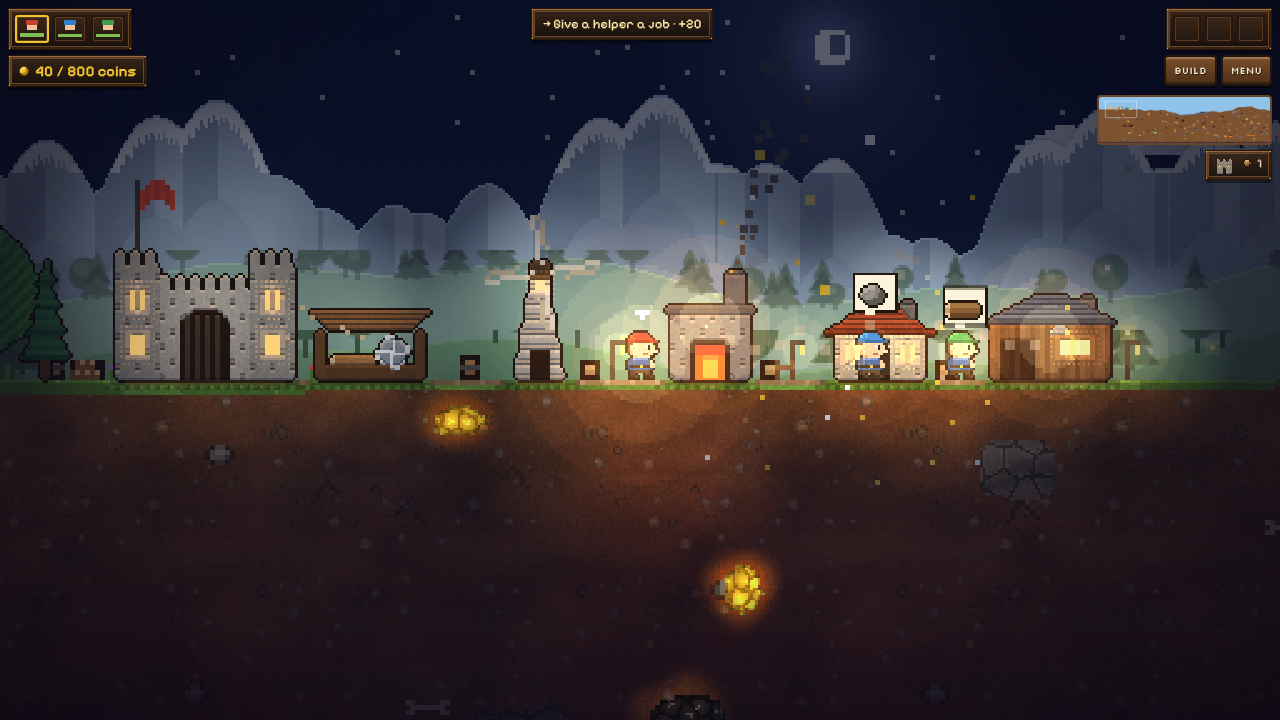
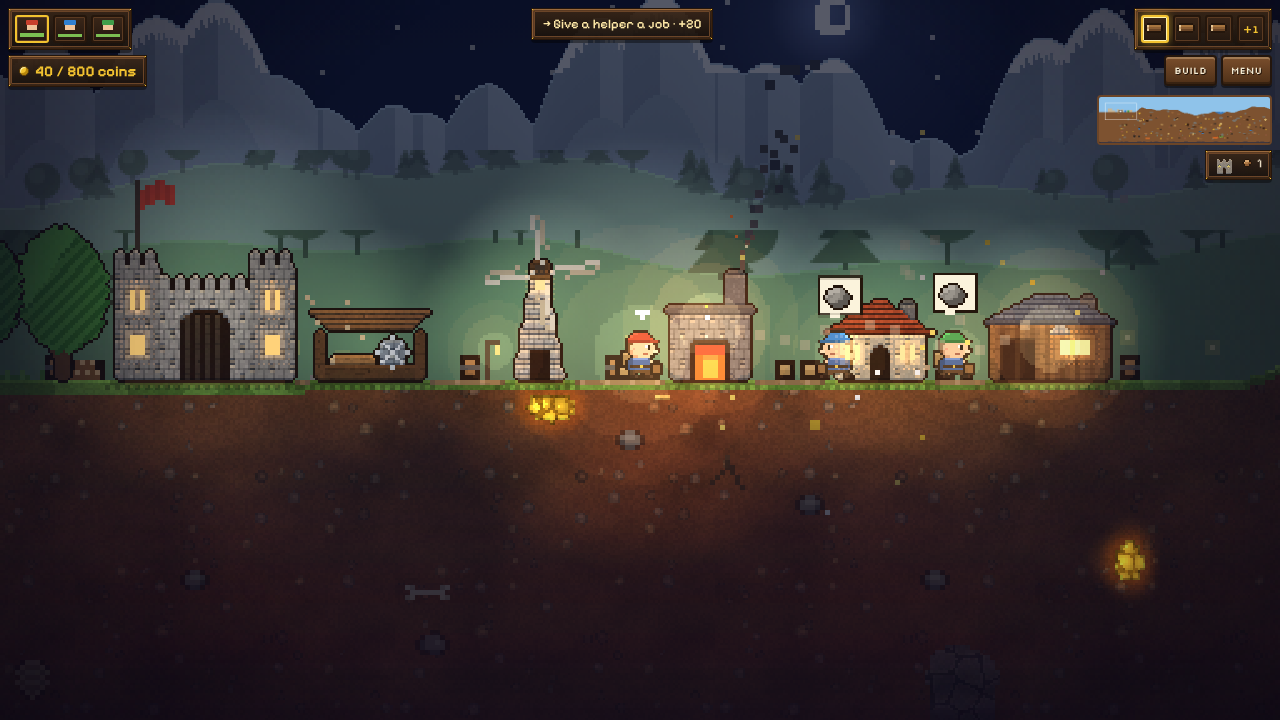
Buildings at double resolution with material detail, everywhere, v1.55.0
- bldart.js variant 1 (chosen from the comparison sheet): stone joints, wood grain, shingles and a
  window glint for all 12 buildings and all 4 building styles, in the world, the lobby and the
  build menu icons; sizes exactly 2x (test).
- No start-cue arrow or banner in the staged store pictures; store pictures regenerated.
- Docs: rubric (v1.55.0, 7.4), STYLE (2x buildings, poses, round start), ANALYTICS (round_cue),
  README structure.

Claude-Session: https://claude.ai/code/session_01NuBFqVHEDCSZpzdS89exSo

diff --git a/src/render.js b/src/render.js
@@ -50,7 +50,8 @@ import { box, drawVehicles, wheel } from './vehicles/core.js';
 import { drawRails } from './vehicles/rails.js';
 import { topSolid } from './gen.js';
 import { game, joyHome } from './input.js';
-import { ICOL, SPR, drawDetailed, drawHi, drawItemBig } from './sprites.js';
+import { ICOL, SPR, drawHi, drawItemBig } from './sprites.js';
+import { drawCrafted } from './bldart.js';
 import { G, animals, birds, builds, clouds, crew, flashes, items, lorries, meteors, parts, trees } from './state.js';
 import { darkness, skyCols, sunAlt } from './weather.js';
 import { H, W, clamp, drawWorld, flush, onResize, rnd } from './world.js';
@@ -141,14 +142,14 @@ function drawSite(ctx, b, spr, sx, sy) {
   const vh = Math.ceil(b.h * b.prog),
     top = sy + b.h - vh;
   ctx.globalAlpha = 0.22;
-  drawDetailed(ctx, spr, sx, sy);
+  drawCrafted(ctx, spr, sx, sy);
   ctx.globalAlpha = 1;
   if (vh > 0) {
     ctx.save();
     ctx.beginPath();
     ctx.rect(sx - 1, top, b.w + 2, vh + 1);
     ctx.clip();
-    drawDetailed(ctx, spr, sx, sy);
+    drawCrafted(ctx, spr, sx, sy);
     ctx.restore();
   }
   // posts on both sides, a little above the walls, with planks every five pixels
@@ -410,7 +411,7 @@ function render() {
       ctx.fillRect(sx - 1, sy + b.h, b.w + 2, 1);
       for (let x = -2; x < b.w + 2; x += 2) ctx.fillRect(sx + x, sy + b.h + 1, 1, 1);
       if (b.done && b.type !== 'flag' && b.type !== 'gate') {
-        drawDetailed(ctx, spr, sx, sy);
+        drawCrafted(ctx, spr, sx, sy);
         drawRoofWeather(ctx, b, sx, sy);
       }
       else if (!b.done) drawSite(ctx, b, spr, sx, sy);

diff --git a/tests/ui.spec.js b/tests/ui.spec.js
@@ -185,3 +185,23 @@ test('castle tabs show one section at a time, a second tap shows all again, the 
   await expect(tools).toBeVisible();
   expect(errors).toEqual([]);
 });
+
+test('the 2x building art keeps every building at exactly double its size (collision is unchanged)', async ({ page }) => {
+  const errors = await lobby(page);
+  const bad = await page.evaluate(async () => {
+    const { SPR } = await import('/src/sprites.js');
+    const { crafted, material } = await import('/src/bldart.js');
+    const out = [];
+    for (const t of ['base', 'hut', 'shop', 'lift', 'pump', 'saw', 'wind', 'furnace', 'chem', 'tower', 'gate', 'flag']) {
+      const o = crafted(SPR[t], 1);
+      // (2× plus a one-texel outline on every side)
+      if (o.width !== SPR[t].width * 2 + 2 || o.height !== SPR[t].height * 2 + 2) out.push(t);
+    }
+    // the materials are read from colours
+    if (material(0xa6, 0x9e, 0x92) !== 'stone' || material(0x8b, 0x5e, 0x34) !== 'wood') out.push('material');
+    if (material(0x9c, 0x44, 0x28) !== 'roof' || material(0xff, 0xd7, 0x7a) !== 'glass') out.push('material2');
+    return out;
+  });
+  expect(bad).toEqual([]);
+  expect(errors).toEqual([]);
+});

diff --git a/src/ui.js b/src/ui.js
@@ -19,6 +19,7 @@ import { FETCH, focusBadge, openCrew, sendHelperFor } from './crewui.js';
 import { register, send } from './commands.js';
 import { buildStairs } from './climb.js';
 import { BUILDABLE, VK, cannotBuild } from './vehicles/index.js';
+import { craftedIcon } from './bldart.js';
 import { vehicleIcon, vehicleOf } from './vehicles/core.js';
 import { canShoot } from './combat.js';
 import { isPlayer } from './players.js';
@@ -517,7 +518,7 @@ function openBuild() {
     const T = BT[t];
     if (T.hidden || (T.terrOnly && !terrOn())) continue;
     opt(lb, {
-      icon: SPR[t],
+      icon: craftedIcon(SPR[t]),
       title: tr(T.name),
       sub: tr(T.info),
       cost: costTxt(T.cost),
@@ -539,7 +540,7 @@ function productionSection(p) {
   for (const { b, busy, why } of list) {
     const fetch = why && !why.full && FETCH[why.item];
     opt(s, {
-      icon: SPR[b.type],
+      icon: craftedIcon(SPR[b.type]),
       title: tr(BT[b.type].name),
       sub: busy
         ? tr('läuft')

diff --git a/src/lobbyscene.js b/src/lobbyscene.js
@@ -5,7 +5,8 @@
 import { parseSkin } from './skins.js';
 import { BIOMES } from './biomes.js';
 import { drawPortrait } from './portrait.js';
-import { SPR, drawDetailed, drawHi, treeSprite } from './sprites.js';
+import { SPR, drawHi, treeSprite } from './sprites.js';
+import { drawCrafted } from './bldart.js';
 import { T, TEX, TUNNEL } from './tex.js';
 import { drawWorkers, resetWorkers, updWorkers } from './lobbyworkers.js';
 
@@ -157,7 +158,7 @@ function paintTerrain() {
   const o = overlay.getContext('2d');
   o.setTransform(2, 0, 0, 2, 0, 0);
   o.imageSmoothingEnabled = false;
-  drawDetailed(o, SPR.base, land.castleX, groundY(land.castleX + 18) - SPR.base.height + 1);
+  drawCrafted(o, SPR.base, land.castleX, groundY(land.castleX + 18) - SPR.base.height + 1);
   const treeType = biomeName === 'desert' ? 'cactus' : biomeName === 'winter' ? 'snowpine' : 'oak';
   for (const [fx, stage, type] of [
     [0.5, 3, treeType],

diff --git a/src/bldart.js b/src/bldart.js
@@ -123,9 +123,15 @@ function crafted(spr, variant = 1) {
   memo.set(spr, o);
   return o;
 }
+// the same picture as a panel icon (ui.js opt(): a canvas marked hi is shown at half its size)
+function craftedIcon(spr) {
+  const o = crafted(spr, 1);
+  o.hi = true;
+  return o;
+}
 function drawCrafted(ctx, spr, x, y, variant = 1) {
   const o = crafted(spr, variant);
   ctx.drawImage(o, x - 0.5, y - 0.5, o.width / 2, o.height / 2);
 }
 
-export { crafted, drawCrafted, material };
+export { crafted, craftedIcon, drawCrafted, material };

diff --git a/src/startcue.js b/src/startcue.js
@@ -55,5 +55,6 @@ function drawCue(ctx, cx, cy) {
   if (cue && cue.gold && G.state === 'play') drawArrow(ctx, cue.gold.x - cx, cue.gold.y - cy);
 }
 const cueOn = () => !!cue;
+const stopCue = () => (cue = null);
 
-export { cueOn, drawCue, startCue, updCue };
+export { cueOn, drawCue, startCue, stopCue, updCue };

diff --git a/docs/ART_RUBRIC.md b/docs/ART_RUBRIC.md
@@ -1,6 +1,6 @@
 # Optik-Rubrik und Bewertung
 
-> **Stand: v1.54.0, 31.10.2026** (erste Bewertung v1.52.0 in Abschnitt 4, Neubewertungen in Abschnitt 7). Bewertet wird nur, was auf Bildern zu sehen war. Die Note misst die
+> **Stand: v1.55.0, 01.11.2026** (erste Bewertung v1.52.0 in Abschnitt 4, Neubewertungen in Abschnitt 7). Bewertet wird nur, was auf Bildern zu sehen war. Die Note misst die
 > **Optik gegenüber den freigegebenen Vorbildern**. Sie sagt nichts über Budget, Teamgröße oder
 > Umfang. Stilregeln: [STYLE.md](STYLE.md), UI-Regeln: [UI_STYLE.md](UI_STYLE.md).
 
@@ -227,4 +227,40 @@ Belege:
 **Gesamt (gewichtet, ohne Kat. 6):** Flintworks **7,4 / 10**, Maßstab 8,6 / 10.
 Schwächster kritischer Zustand: **Oberfläche zu Beginn**, jetzt 6 (Burghof statt leerer Wiese, aber
 noch kein Ziel im Bild, solange nach dem Tutorial keine Gebäude stehen).
+
+### Nachtrag v1.55.0
+
+Die drei zuletzt offenen Punkte sind umgesetzt, und zwar im Code statt durch einen Pixel-Artist:
+
+1. **Ziel zu Rundenbeginn** (`startcue.js`): ein Banner mit dem Rundenziel; der gelbe Pfeil zeigt bis
+   zum ersten Graben (höchstens 12 s) auf die nächste Goldader nahe der Oberfläche; der Wegweiser am
+   Burghof dreht sich dorthin.
+2. **Neue Posen** (`clonkhi.js`): Frontansicht beim Wenden, Vorlage beim Loslaufen, Rücklage mit
+   gestemmten Beinen beim Bremsen. Dazu kommen Sprung, Fall und Tragen.
+3. **Gebäude in doppelter Auflösung** (`bldart.js`, Variante 1 nach Wahl des Nutzers):
+   - Jeder Pixel der Vorlage wird als Stein, Holz, Dach oder Fenster erkannt und in 2×2 Texeln mit
+     Fugen, Maserung, Schindeln oder Glanz gezeichnet.
+   - Das gilt für alle 12 Gebäude und alle 4 Baustile, auch für die Icons im Bau-Menü und die Lobby-Burg.
+   - Die Maße bleiben exakt; ein Test prüft das.
+
+Belege:
+- Posenbogen (Stehen, Laufen, Start, Bremsen, Wenden, Sprung, Fall, Tragen).
+- Gebäudebogen (heute, Variante 1, Variante 2, Tag und Nacht) und alle Baustile.
+- Store-Bilder.
+
+| # | Kategorie | v1.54.0 | v1.55.0 | Beleg |
+|---|---|---|---|---|
+| 6 | Animation | 7 | **8** | Posenbogen: Frontansicht, Start- und Bremspose lesbar |
+| 3 | Material und Wert | 8 | 8 | Gebäude zeigen ihr Material (Burg mit Fugen); Gelände unverändert |
+| 5 | Welt und Siedlung | 7 | 7 | Gebäude detailreicher, Siedlung aber weiter eine Reihe |
+
+**Gesamt:** ohne Kategorie 6 bleibt es bei **7,4**, mit Animation **7,4** (vorher 7,3).
+Die Oberfläche zu Beginn steigt von 6 auf **7** (Banner, Pfeil, Wegweiser). Schwächster kritischer
+Zustand ist jetzt kein einzelner Bildschirm mehr. Die größten Lücken zum Maßstab bleiben Effekte (6)
+und Licht in der Tiefe (7).
+
+**Offen:**
+- UX-Test mit echten Spielern.
+- Ein älterer Fehler, gefunden beim Prüfen der Baustile: Stein- und Winterstil färben auch Ofenfeuer
+  und das Werkstattfenster grau (`restyle` in `skins.js`), weil diese Farben als Holz erkannt werden.
 

diff --git a/docs/STYLE.md b/docs/STYLE.md
@@ -81,7 +81,9 @@ Keine weichgezeichneten Kanten: Bilder ohne Glättung zeichnen, Koordinaten rund
 - Posen (`clonkhi.js`): `LEGS` (4 Laufphasen), `JUMP` (steigen: Beine angezogen, Arm halb hoch),
   `FALL` (fallen: Beine gespreizt, Arm hoch), `CLIMB`. „In der Luft“ heißt `c.airT > 3` (eine Stufe
   hinab zählt nicht). Ab 3 Dingen im Gepäck trägt der Wühler einen Sack auf dem Rücken.
-- Wenden: 5 Bilder lang die Durchgangs-Beinphase (`LEGS[3]`) ohne Armschwung (`c.turnF`).
+- Wenden: 5 Bilder lang die Frontansicht `FRONT` (eigene Pixelzeilen, Hut wird mitgezeichnet; `c.turnF`).
+- Loslaufen: 4 Bilder Vorlage (ein Texel vor und tiefer, Schrittbeine; `c.startF`); Bremsen aus
+  vollem Lauf: 5 Bilder Rücklage mit gestemmten Beinen `BRAKE` (`c.stopF`).
 - Staub (`dust`): jede Landung ab `fallV > 1.2`, Wenden aus vollem Lauf, Schritte.
 - Monster zeigen ein blinkendes „!“, bevor sie zuschlagen können (nur Bild; Takt und Schaden gleich;
   im Netz als Feld `w` der Tiere übertragen).
@@ -119,4 +121,25 @@ Keine weichgezeichneten Kanten: Bilder ohne Glättung zeichnen, Koordinaten rund
    Zustands-Matrix. Eine Änderung darf keine Kategorie schlechter machen.
 3. 1-Sekunden-Test: Bild kurz zeigen. Sind Figur, Gefahr, nächste Handlung erkennbar?
 4. Note in ART_RUBRIC.md nachtragen, wenn sich eine Kategorie sichtbar ändert.
+
+## Gebäude in doppelter Auflösung (`bldart.js`)
+
+- Die Gebäude werden weiter in 1× gezeichnet (`sprites.js`, Baustile über `restyle` in `skins.js`).
+  Auf dem Bildschirm erscheinen sie über `crafted()`: Jeder Pixel wird nach seiner Farbe als Stein,
+  Holz, Dach, Fenster, Eisen oder dunkle Öffnung erkannt (`material()`); seine 2×2 Texel bekommen das
+  passende Muster:
+  - Stein: Fugen rechts und unten im Versatz;
+  - Holz: dunkle Maserungs-Streifen und Astlöcher;
+  - Dach: Schindelkanten;
+  - Fenster: Glanz oben links.
+- Neue Gebäude brauchen dafür nichts Eigenes: Sie bekommen das Muster, wenn sie die Material-Farben
+  der Palette benutzen (Stein grau, Holz braun-orange, Dach rot oder schiefergrau, Fenster hellgelb).
+- Die Maße bleiben exakt doppelt (plus 1 Texel Umriss); Kollision und Bauplatz hängen nur an `b.w`/`b.h`.
+- Variante 2 (Moos und Ruß) ist im Code vorhanden (`crafted(spr, 2)`), aber nicht in Gebrauch.
+
+## Rundenbeginn (`startcue.js`)
+
+- Banner mit Modus und Ziel; gelber Pfeil (`arrow.js`, derselbe wie im Tutorial) zur nächsten
+  Goldader bis 60 Reihen unter der Oberfläche; weg nach dem ersten Graben oder nach 12 s; der
+  Wegweiser am Burghof zeigt in dieselbe Richtung (`G.signDir`). Nicht im Tutorial, nicht als Gast.
 

diff --git a/README.md b/README.md
@@ -135,6 +135,9 @@ src/
   onboarding.css      Startschleier, HUD im Tutorial, große Texte
   panels.css          Fenster als Spiel-UI: Kachelzustände, Grund-Chips, Reiter
   props.js            Burghof, Fässer, Kisten, Zäune, Laternen, Wege und Stromleitungen (nur Bild)
+  bldart.js           Gebäude in doppelter Auflösung mit Fugen, Maserung, Schindeln
+  startcue.js         Rundenbeginn: Ziel-Banner und Pfeil zur nächsten Goldader
+  arrow.js            Der gelbe Zielpfeil (Tutorial und Rundenbeginn)
   analytics.js        Analyse-Ereignisse (nur lokal), siehe docs/ANALYTICS.md
   lessons.js          Tipps und Aufträge nach dem Tutorial, Spielhilfe in der Lobby
   versus.js           Versus: Burg-Lebenspunkte, Hügel, Rundenuhr, Nachschub, Sieger

diff --git a/docs/ANALYTICS.md b/docs/ANALYTICS.md
@@ -55,6 +55,7 @@
 | `onb_exit` | `step`, `sec` | Seite verlassen mitten im Tutorial (Abbruchstelle) | `tutorial.js` |
 | `onb_resume` | `step` | Gespeichertes Tutorial geht weiter | `tutorial.js` |
 | `core_round_start` | `mode`, `after_onb` | Eine neue echte Runde beginnt; `after_onb` = direkt nach dem Tutorial | `main.js` |
+| `round_cue` | `gold` | Der Hinweis zu Rundenbeginn wurde gezeigt; `gold` = es gab eine Goldader für den Pfeil | `startcue.js` |
 | `session_end` | `sec`, `state` | Seite wird verlassen (Sitzungslänge) | `analytics.js` |
 
 ## Onboarding-Funnel
